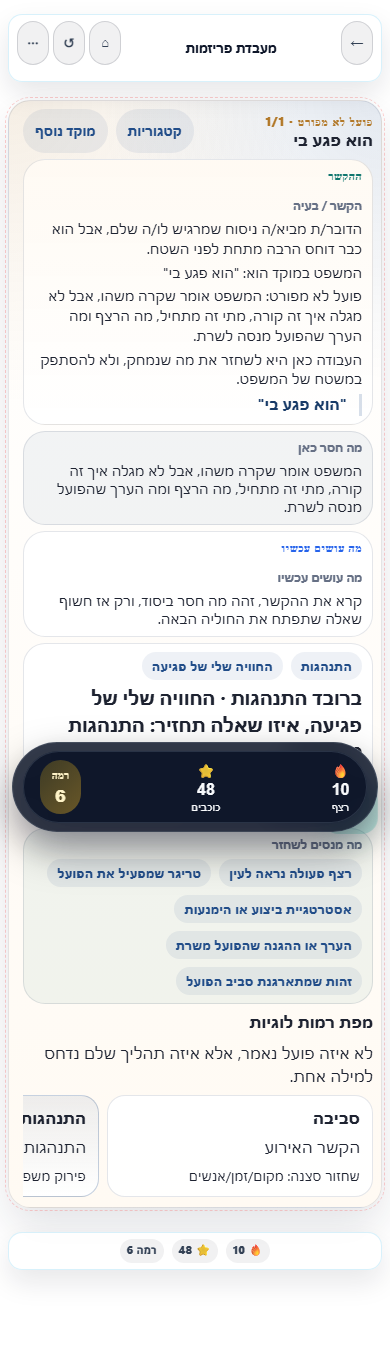
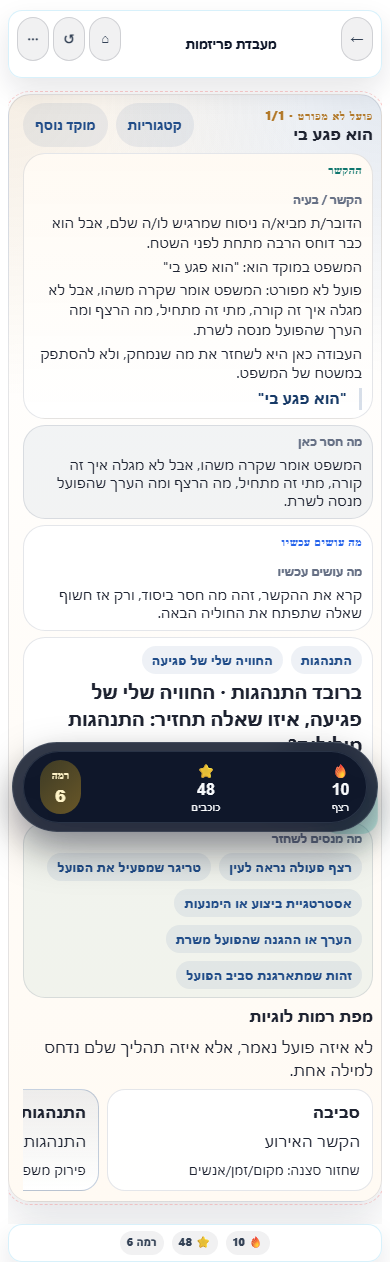
dsf

diff --git a/css/prism-necessity.css b/css/prism-necessity.css
@@ -9,13 +9,38 @@ body.shell-feature-active[data-active-tab="prismlab"] {
 }
 
 #prismlab.tab-content.is-meta-feature-shell-ready[data-meta-feature-stage="feature"] {
+  display: grid;
+  grid-template-rows: auto minmax(0, 1fr) auto;
+  min-height: calc(var(--app-dvh, 100svh) - 24px);
+  max-height: calc(var(--app-dvh, 100svh) - 24px);
   overflow: hidden;
-  min-height: 0;
+  padding-bottom: 0;
+  align-content: stretch;
 }
 
 #prismlab.tab-content.is-meta-feature-shell-ready[data-meta-feature-stage="feature"] #prism-necessity-root {
+  display: flex;
+  flex: 1 1 auto;
   min-height: 0;
   height: 100%;
+  overflow: hidden;
+}
+
+#prismlab.tab-content.is-meta-feature-shell-ready[data-meta-feature-stage="feature"] > [data-meta-feature-chrome="top"],
+#prismlab.tab-content.is-meta-feature-shell-ready[data-meta-feature-stage="feature"] > [data-meta-feature-chrome="bottom"] {
+  position: static;
+  margin: 0;
+}
+
+#prismlab.tab-content.is-meta-feature-shell-ready[data-meta-feature-stage="feature"] .meta-feature-chrome__bar {
+  backdrop-filter: none;
+  -webkit-backdrop-filter: none;
+  background: rgba(255, 255, 255, 0.98);
+}
+
+#prismlab.tab-content.is-meta-feature-shell-ready[data-meta-feature-stage="feature"] .pnm-view {
+  block-size: calc(var(--app-dvh, 100svh) - 176px);
+  max-block-size: calc(var(--app-dvh, 100svh) - 176px);
 }
 
 .pnm-app {
@@ -33,12 +58,17 @@ body.shell-feature-active[data-active-tab="prismlab"] {
   font-family: "Assistant", "Segoe UI", sans-serif;
   width: min(100%, 1080px);
   margin: 0 auto;
+  min-height: 0;
 }
 
 .pnm-app--embedded {
-  height: calc(100svh - 152px);
-  max-height: calc(100svh - 152px);
-  padding: 8px 10px 12px;
+  display: grid;
+  grid-template-rows: minmax(0, 1fr);
+  flex: 1 1 auto;
+  height: 100%;
+  max-height: none;
+  padding: 6px 10px 8px;
+  overflow: hidden;
 }
 
 .pnm-app--standalone {
@@ -47,13 +77,18 @@ body.shell-feature-active[data-active-tab="prismlab"] {
 }
 
 .pnm-app[data-view] {
-  display: flex;
-  flex-direction: column;
+  display: grid;
+  grid-template-rows: minmax(0, 1fr);
+  flex: 1 1 auto;
+  min-height: 0;
 }
 
 .pnm-view {
   display: grid;
+  flex: 1 1 0%;
   gap: 10px;
+  height: 100%;
+  max-height: 100%;
   min-height: 0;
   overflow: auto;
   padding: 8px;
@@ -64,6 +99,7 @@ body.shell-feature-active[data-active-tab="prismlab"] {
     radial-gradient(circle at 100% 0%, rgba(33, 77, 137, 0.12), transparent 24%),
     linear-gradient(180deg, var(--pnm-paper-strong), var(--pnm-paper));
   box-shadow: var(--pnm-shadow);
+  overscroll-behavior: contain;
   scrollbar-gutter: stable;
 }
 
@@ -348,10 +384,22 @@ body.shell-feature-active[data-active-tab="prismlab"] {
     overflow-y: auto;
   }
 
+  #prismlab.tab-content.is-meta-feature-shell-ready[data-meta-feature-stage="feature"] {
+    min-height: auto;
+    max-height: none;
+    grid-template-rows: auto minmax(0, 1fr) auto;
+  }
+
+  #prismlab.tab-content.is-meta-feature-shell-ready[data-meta-feature-stage="feature"] .pnm-view {
+    block-size: auto;
+    max-block-size: none;
+  }
+
   .pnm-app--embedded {
     height: auto;
     max-height: none;
     padding: 4px 0 10px;
+    overflow: visible;
   }
 
   .pnm-view {

diff --git a/index.html b/index.html
@@ -1,5 +1,5 @@
 <!DOCTYPE html>
-<html lang="he" dir="rtl" data-app-version="1.0.413" data-build-time="1773782166527" data-build-iso="2026-03-17T21:16:06.527Z" data-git-commit="fdc4028">
+<html lang="he" dir="rtl" data-app-version="1.0.414" data-build-time="1773783504856" data-build-iso="2026-03-17T21:38:24.856Z" data-git-commit="6336bea">
 <head>
     <meta charset="UTF-8">
     <meta name="viewport" content="width=device-width, initial-scale=1.0">

diff --git a/js/runtime-env.js b/js/runtime-env.js
@@ -4,8 +4,8 @@
   "VITE_SUPABASE_ANON_KEY": "",
   "VITE_PUBLIC_SITE_URL": "",
   "VITE_ADSENSE_CLIENT_ID": "",
-  "APP_VERSION": "1.0.413",
-  "BUILD_ISO": "2026-03-17T21:16:06.527Z",
-  "GIT_COMMIT": "fdc4028"
+  "APP_VERSION": "1.0.414",
+  "BUILD_ISO": "2026-03-17T21:38:24.856Z",
+  "GIT_COMMIT": "6336bea"
 });
 })();
